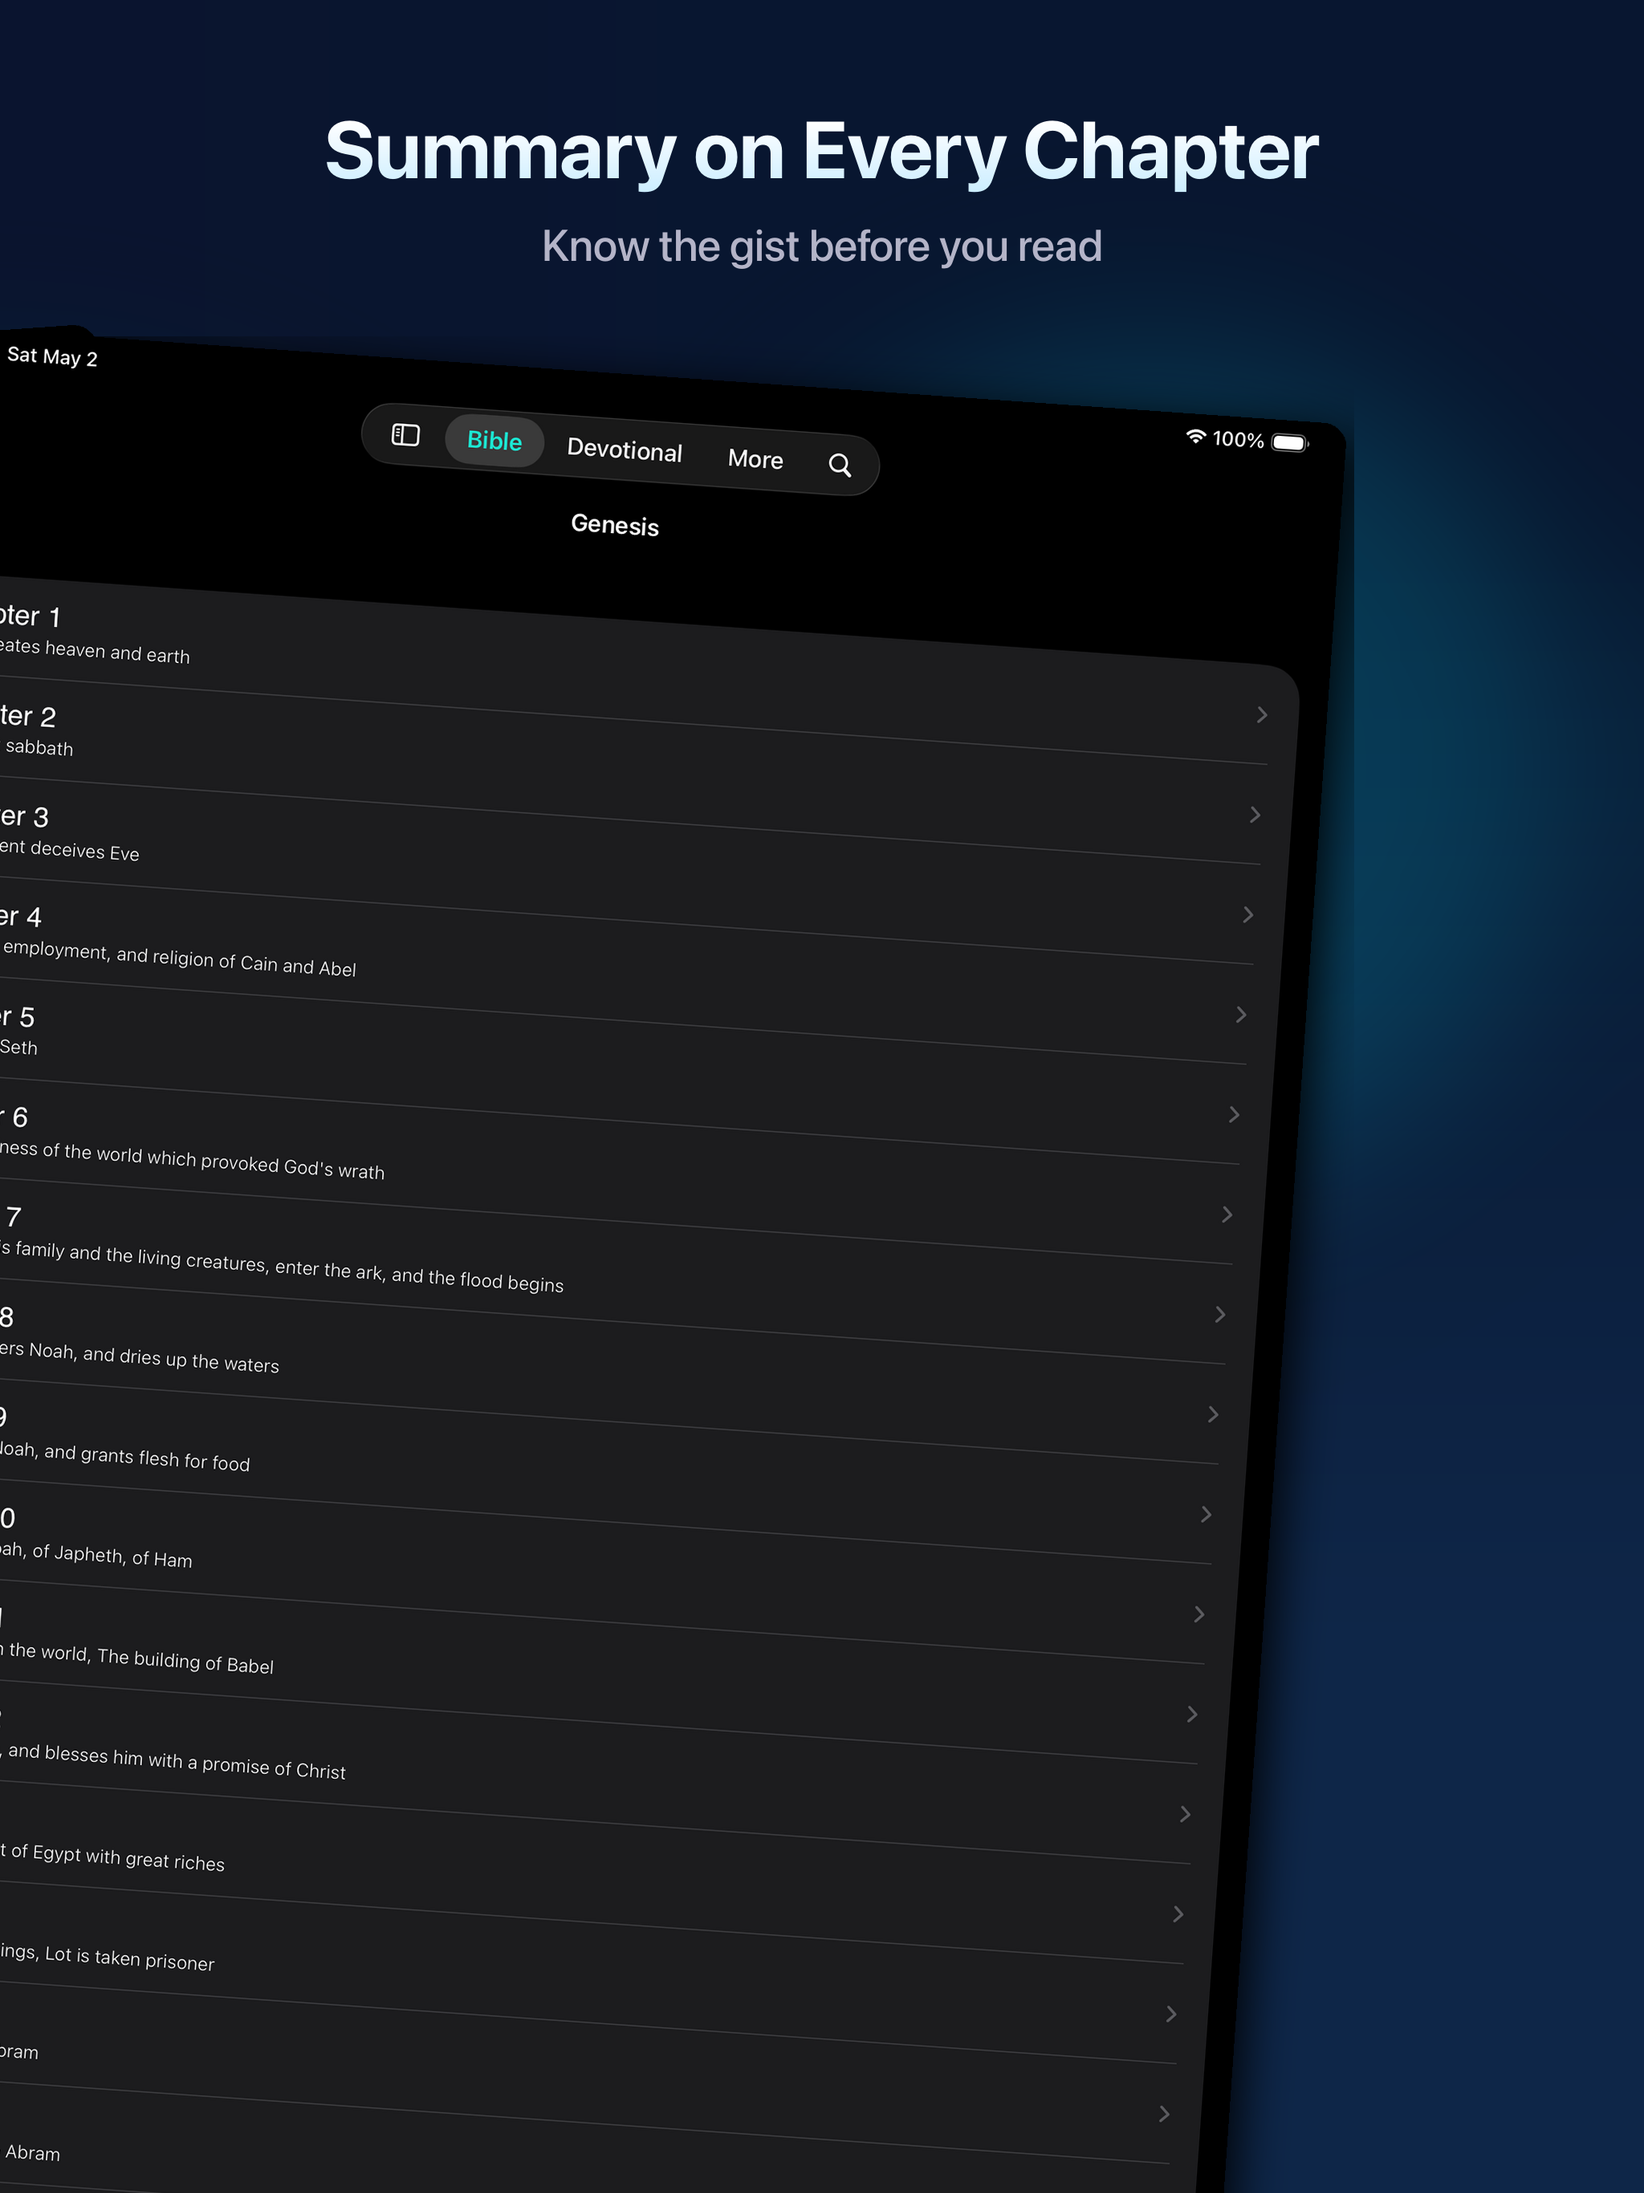
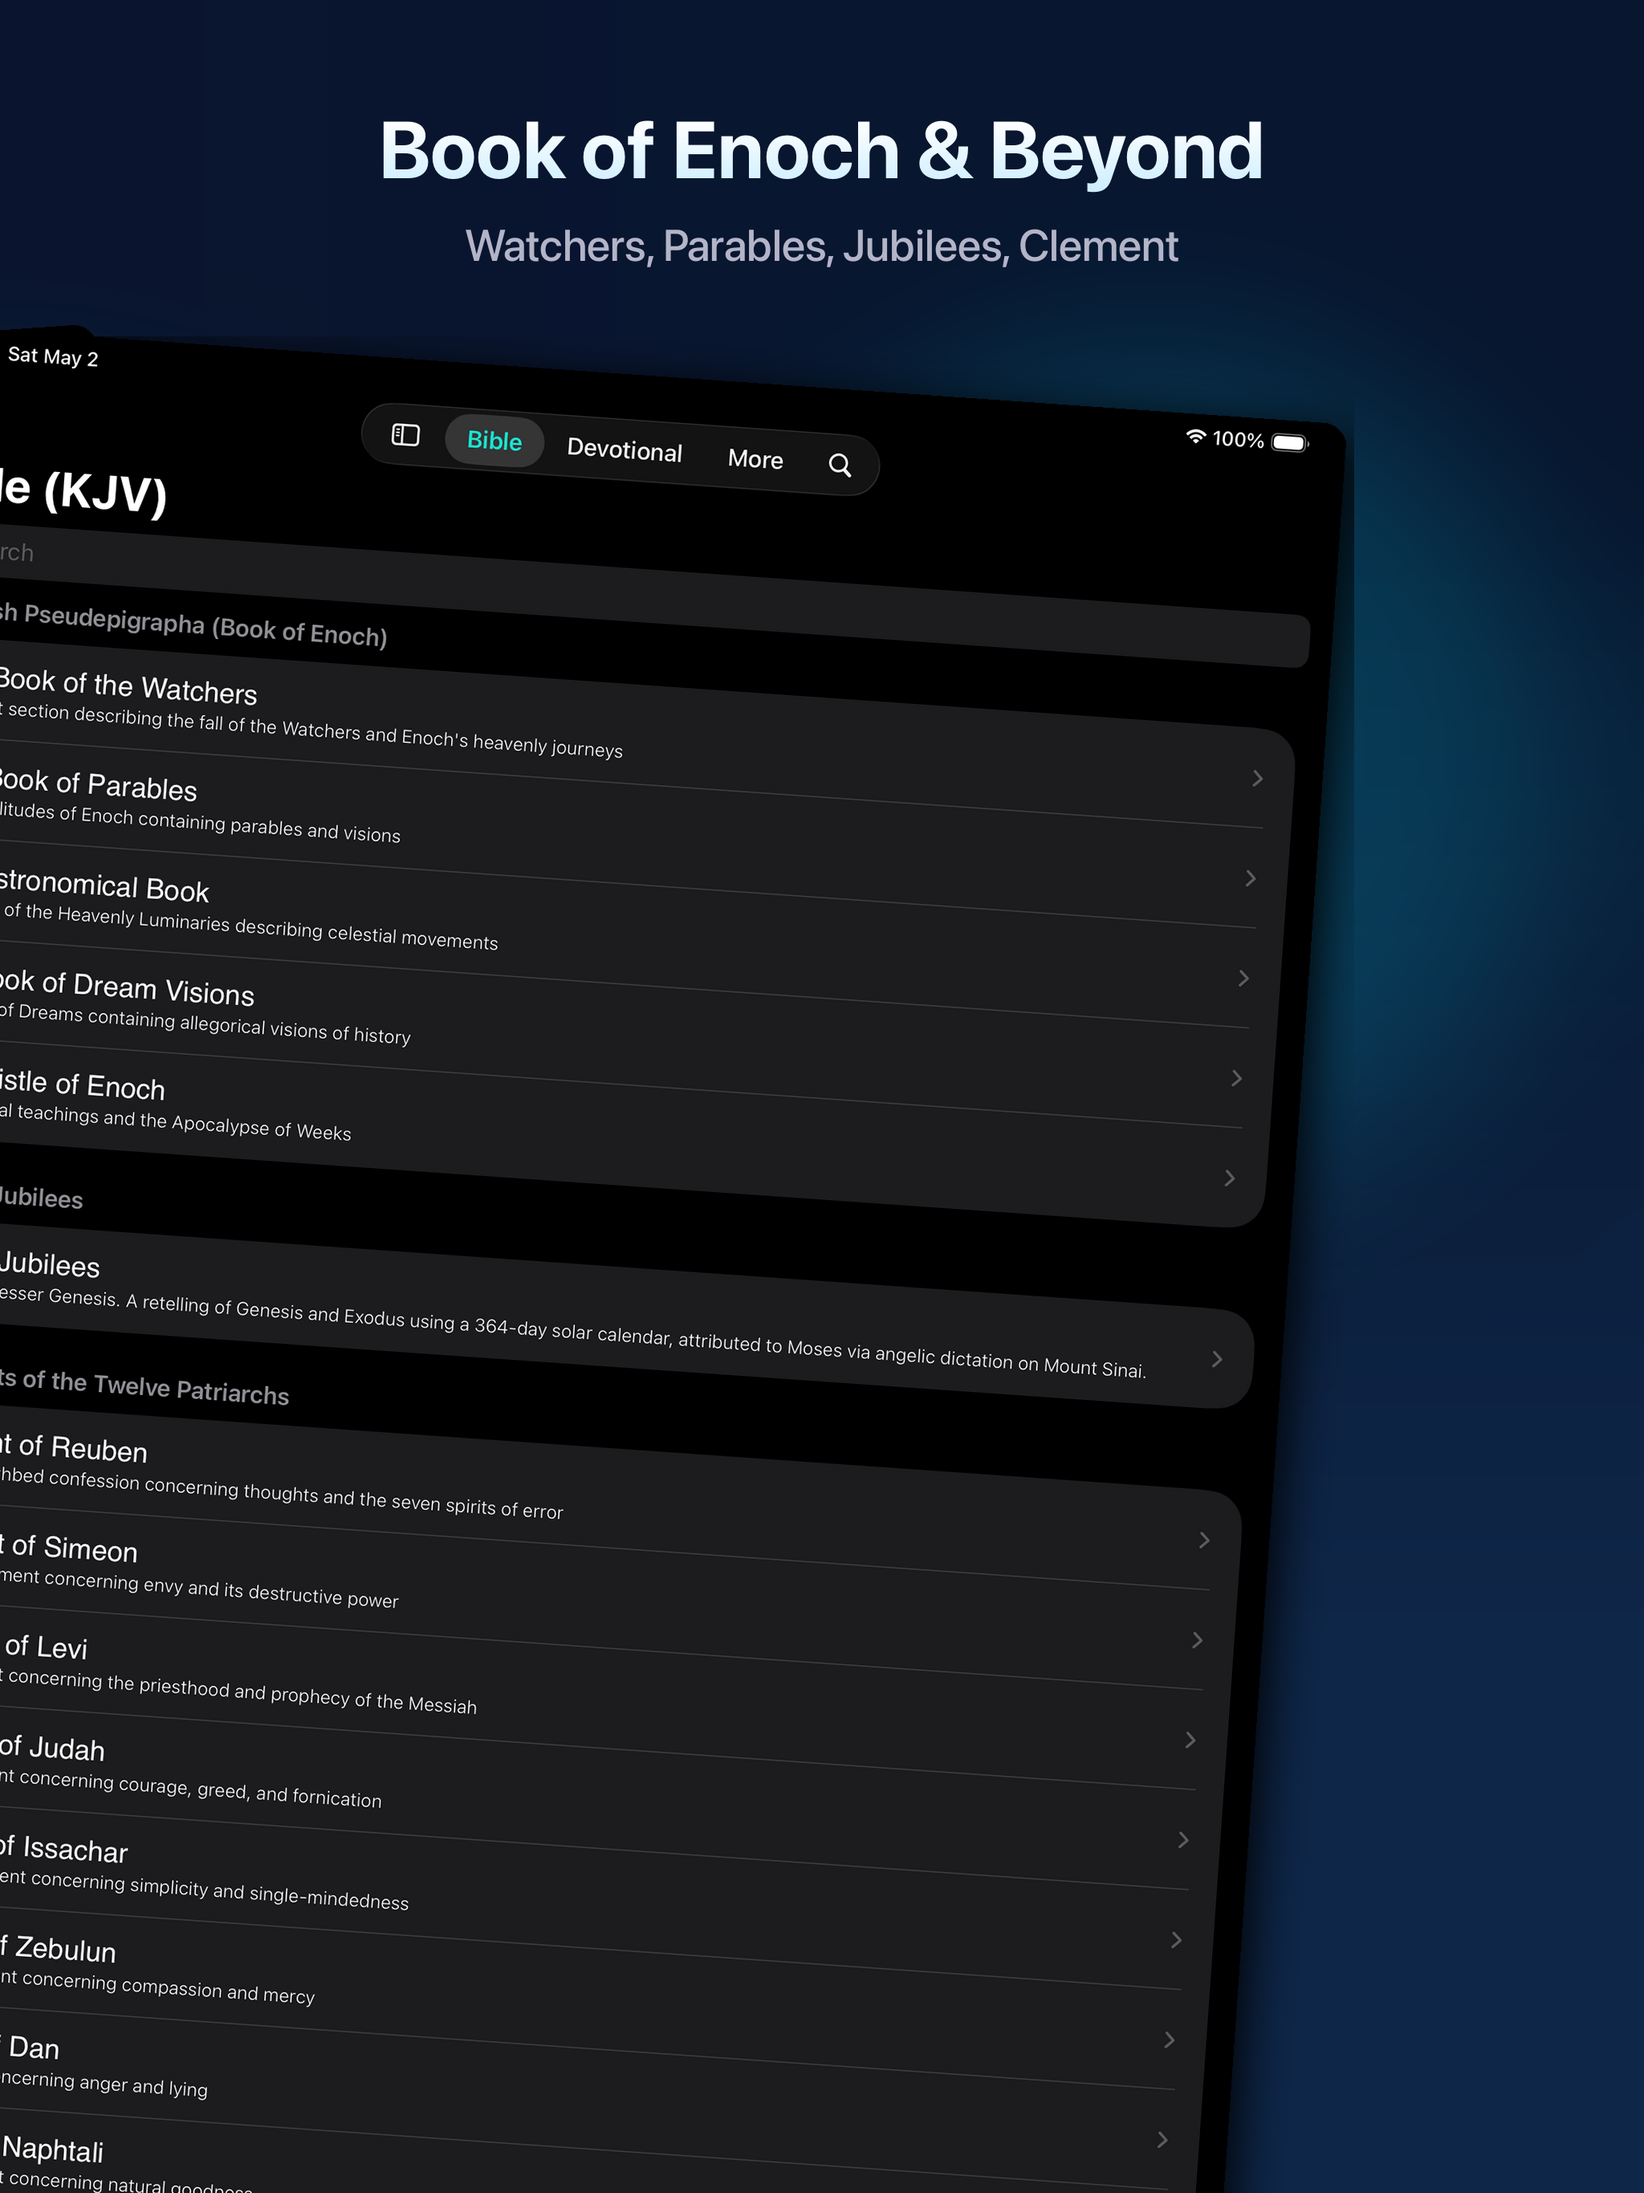
Add slots 9 + 10: Search and Free + Open Source
- Slot 6/7 panoramic now uses dedicated screenshots for Apocrypha (Tobit,
  Judith, Wisdom, Maccabees, Esdras) and Book of Enoch + Jubilees +
  Testaments — clearer narrative than the scrolled book list.
- Slot 9 (Search): "Find Any Verse, Instantly" / "Search the entire Bible
  in a tap" — search results for "Prayer" (2 Samuel, 1 Kings 8). Hits
  "Bible search" keyword.
- Slot 10 (Free + Open Source): "Free Forever. Open Source." / "No ads.
  No tracking. No subscriptions." Reuses the existing Settings screenshot;
  serves as Sebastian's Peak-End emotional close.

diff --git a/appstore/generate_marketing_screenshots.py b/appstore/generate_marketing_screenshots.py
@@ -1274,15 +1274,17 @@ ULTIMATE_MIXED = [
      "headline_font": "headline",
      "vignette": True, "accent_line": RED, "bloom": True},
 
-    # Slots 6+7: PANORAMIC (DARK) — library depth + study tool combo.
-    # Left uses the apocrypha-scrolled book list so the headline matches.
+    # Slots 6+7: PANORAMIC (DARK) — library depth.
+    # Left = Apocrypha books (Tobit, Judith, Wisdom...), Right = Book of Enoch
+    # sections (Watchers, Parables, Astronomical...). Together they show the
+    # breadth of pseudepigrapha that no other free Bible app includes.
     {"layout": "panoramic",
-     "left_filename": "01b_apocrypha_books_dark",
-     "right_filename": "02_chapters_dark",
-     "left_headline": "Apocrypha & Enoch Included",
-     "left_subtitle": "Jubilees, Clement, Didache — public domain",
-     "right_headline": "Summary on Every Chapter",
-     "right_subtitle": "Know the gist before you read",
+     "left_filename": "06_apocrypha_dark",
+     "right_filename": "07_enoch_dark",
+     "left_headline": "Apocrypha Included",
+     "left_subtitle": "Tobit, Judith, Wisdom, Maccabees, Esdras",
+     "right_headline": "Book of Enoch & Beyond",
+     "right_subtitle": "Watchers, Parables, Jubilees, Clement",
      "left_angle": 4, "right_angle": -4,
      "scale": 0.88,
      "grad_tl": (13, 18, 45), "grad_tr": (8, 22, 48),
@@ -1310,6 +1312,34 @@ ULTIMATE_MIXED = [
      "vignette": True,
      "god_rays": GOLD, "god_rays_corner": "top_right",
      "color_grade": 0.15},
+
+    # Slot 9: HERO (DARK) — search (kw: "Bible search")
+    {"layout": "hero",
+     "filename": "09_search_dark",
+     "headline": "Find Any Verse, Instantly",
+     "subtitle": "Search the entire Bible in a tap",
+     "scale": 0.88, "angle": 0,
+     "grad_top": (8, 22, 48), "grad_bot": (14, 38, 72),
+     "orbs": [(0.3, 0.3, 0.5, CYAN, 50), (0.75, 0.65, 0.35, ACCENT, 35)],
+     "headline_grad": ((255, 255, 255), TINT_BLUE),
+     "headline_font": "headline",
+     "light_leak": CYAN, "light_leak_corner": "top_left", "light_leak_size": 0.3,
+     "accent_line": CYAN, "bloom": True},
+
+    # Slot 10: HERO (DARK) — emotional close. Per Sebastian: peak-end last
+    # slot. Free/open-source is the strongest moat against monetized rivals.
+    {"layout": "hero",
+     "filename": "08_settings_dark",
+     "headline": "Free Forever. Open Source.",
+     "subtitle": "No ads. No tracking. No subscriptions.",
+     "scale": 0.85, "angle": 0,
+     "grad_top": (16, 18, 30), "grad_bot": (28, 32, 48),
+     "orbs": [(0.4, 0.4, 0.5, GOLD, 35), (0.7, 0.6, 0.3, ACCENT, 25)],
+     "headline_grad": ((255, 255, 255), TINT_GOLD),
+     "headline_font": "intro",
+     "glow": GOLD, "bokeh": GOLD, "grain": True, "vignette": True,
+     "god_rays": GOLD, "god_rays_corner": "top_right",
+     "color_grade": 0.15, "bloom": True},
 ]
 
 
